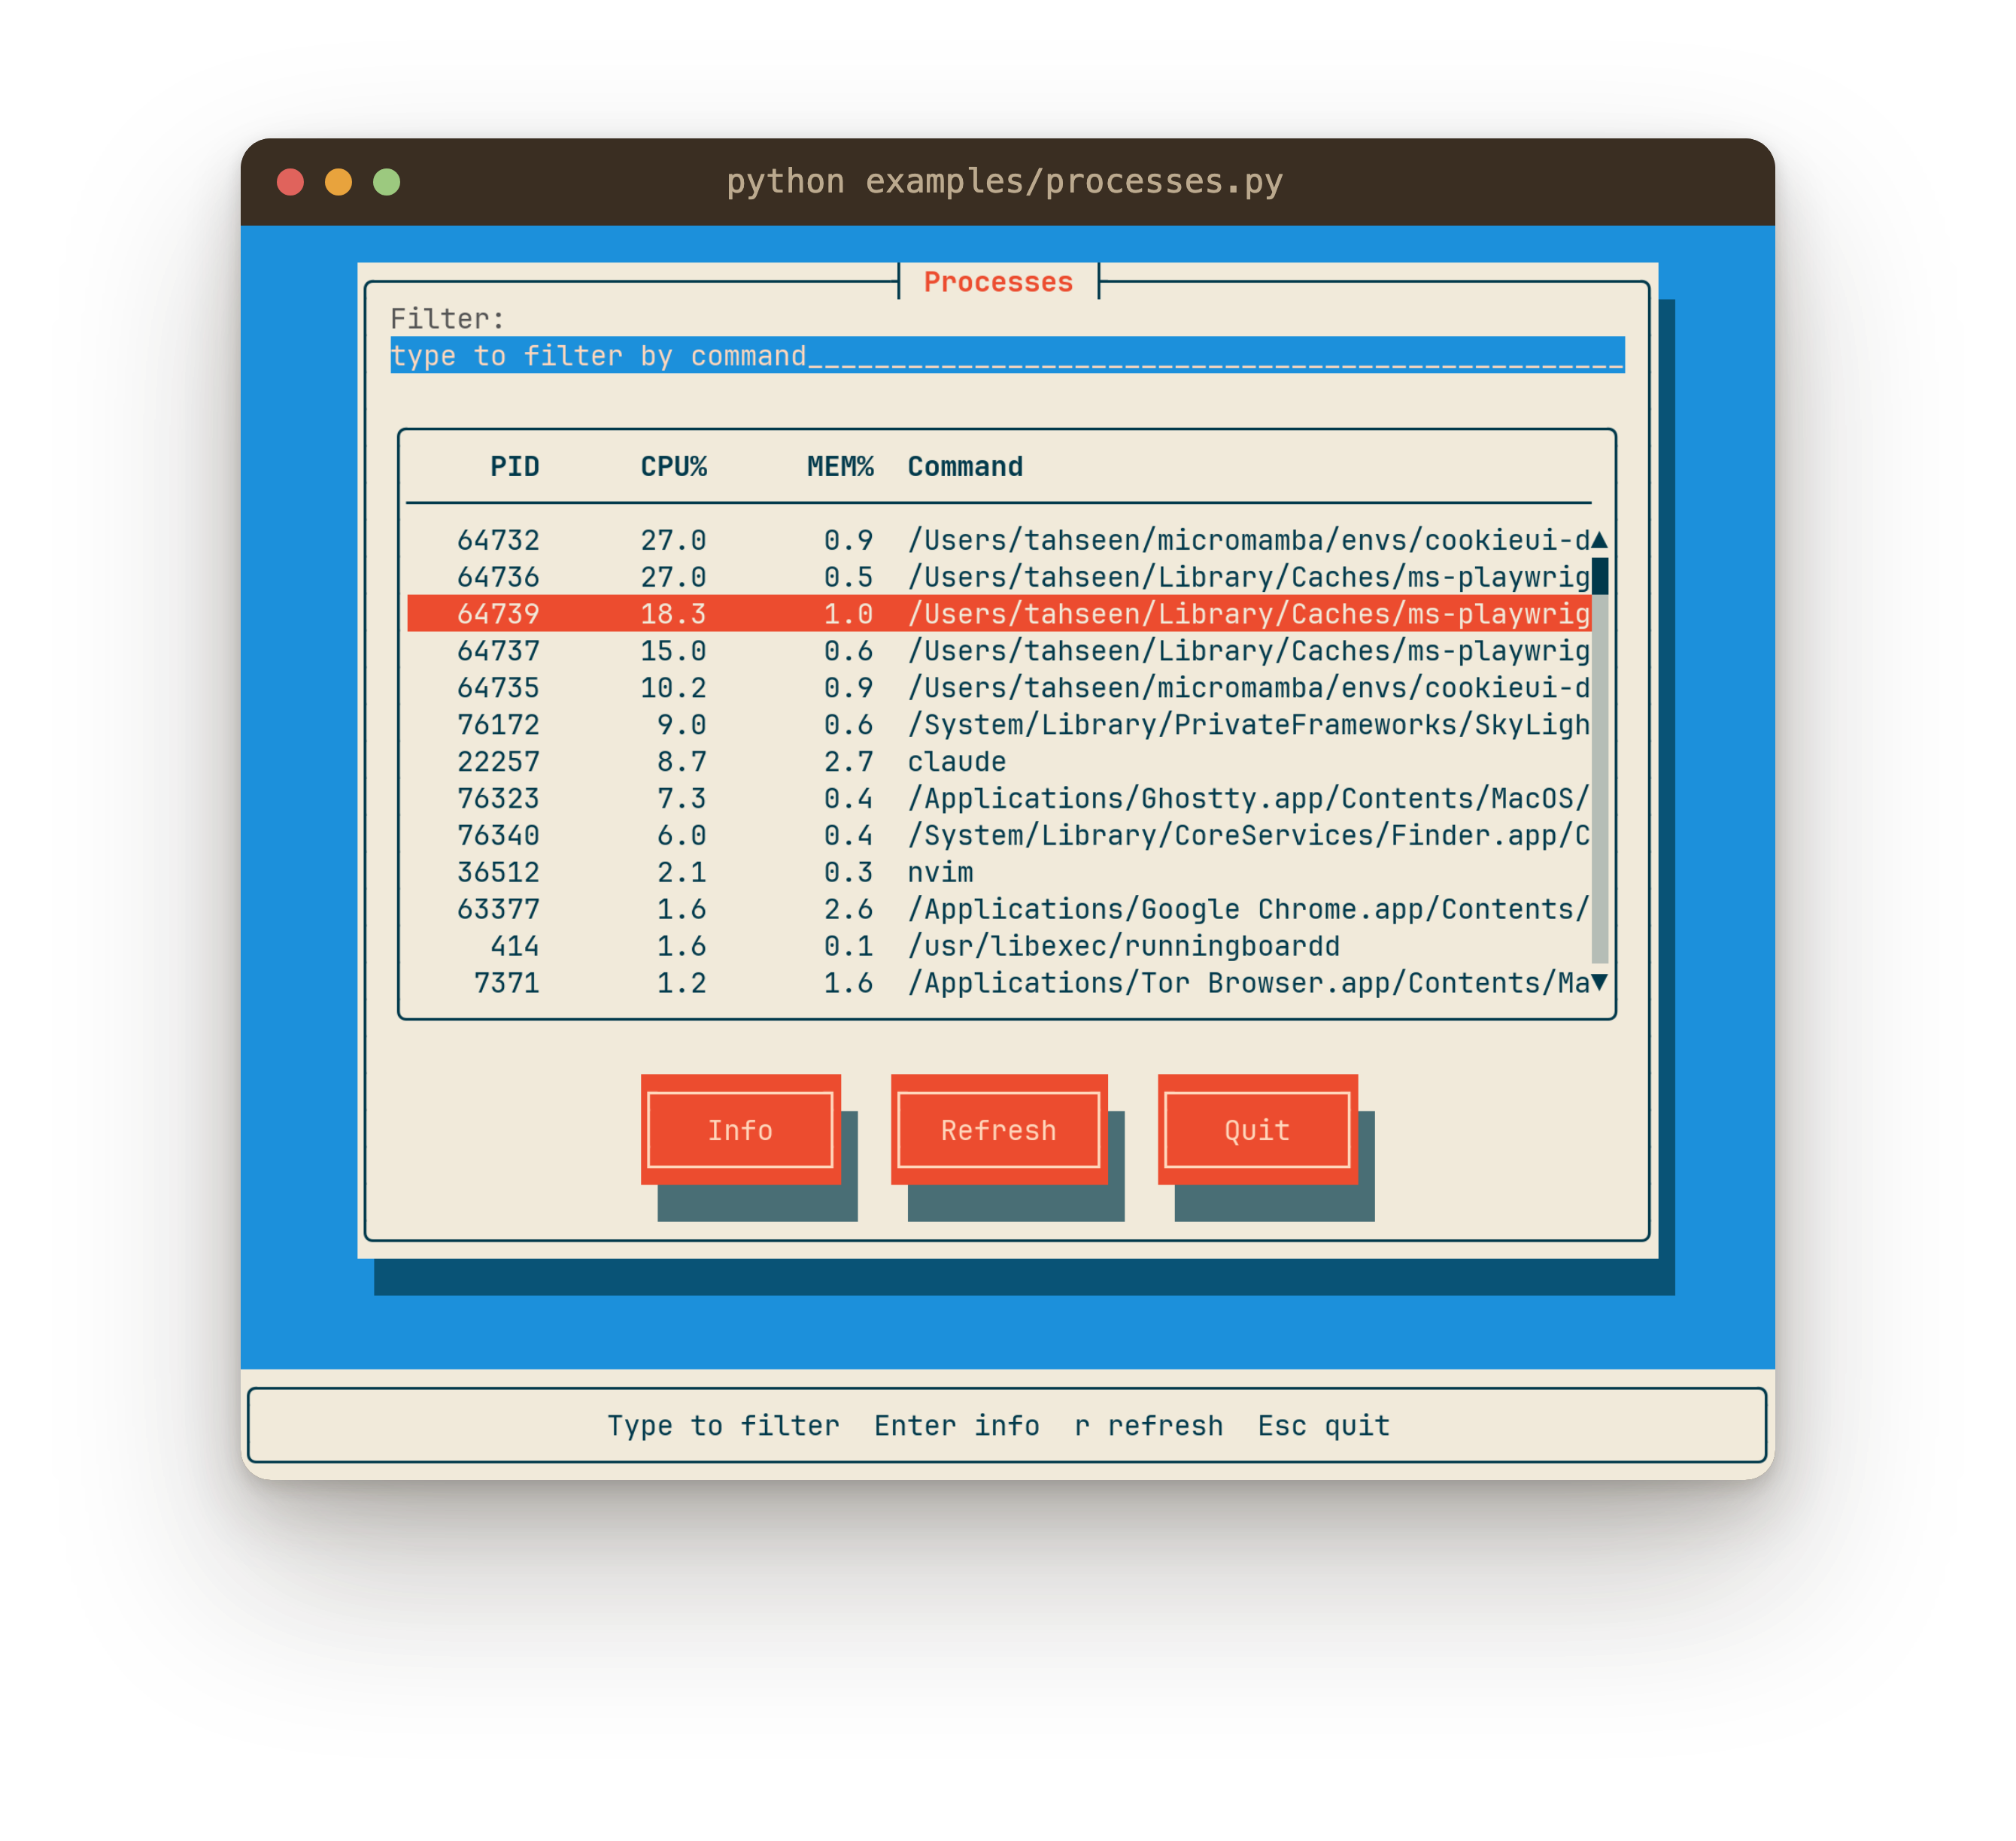
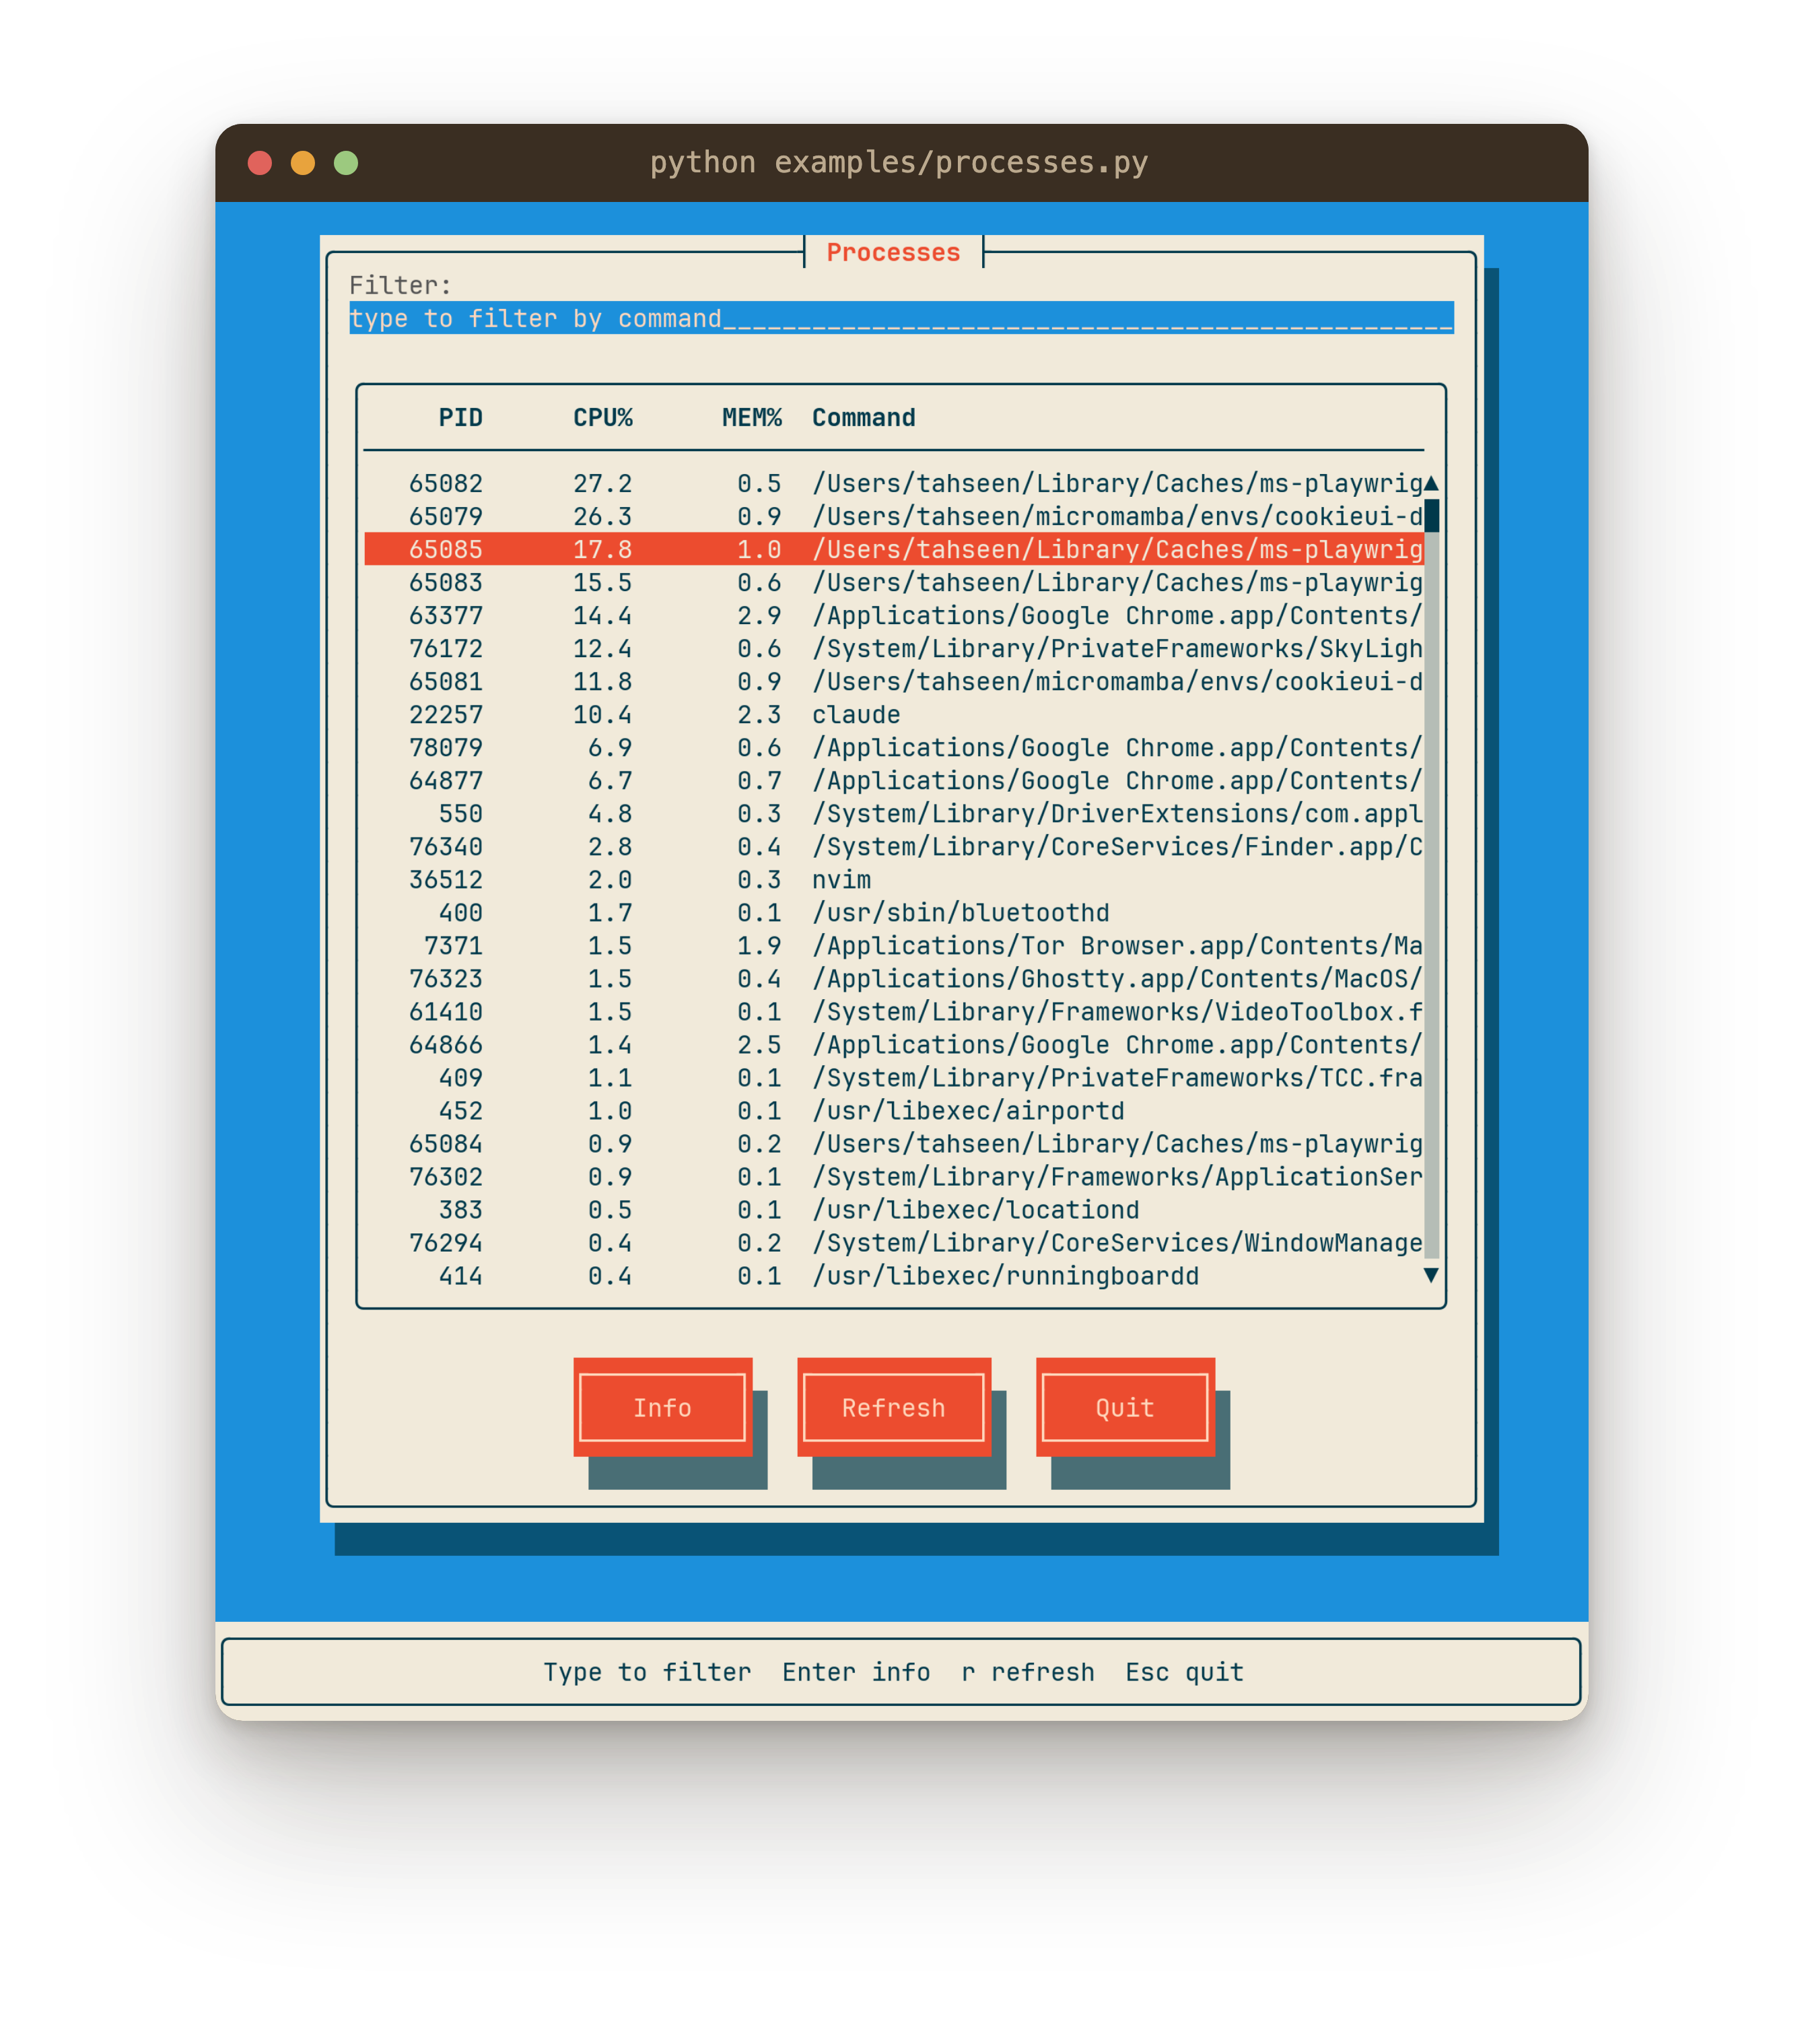
Render the 0.85-height shots in a taller terminal, not a shrunk window
The clamp guaranteed the gap by shrinking the window; the screenshots should
instead show the window at its full requested 0.85 height with the gap coming
from real space. processes and themedemo now render at h=46 (0.85·H + chrome
fits only past H=44), so the Theme Gallery / process table windows are full
size and clear the status bar with two blank rows. The library clamp stays as
a defensive net for genuinely small terminals; here it no longer engages.

Changed region(s): [[0.0929, 0.0621, 0.8981, 0.8693]]

diff --git a/screenshots/generate.py b/screenshots/generate.py
@@ -51,6 +51,10 @@ TITLEFONT = ImageFont.truetype(find_font('JetBrainsMono-Regular.ttf'), 24)
 CW = round(FONT.getlength('M'))
 CH = round(SIZE * 1.30)
 TERM_W, TERM_H = 92, 34
+# apps that ask for 0.85 of the height (processes, themedemo) need a taller
+# terminal so the window renders at full size *and* clears the status bar with
+# a real gap — 0.85·H + shadow + gap + status fits only once H >= 44.
+TALL_H = 46
 
 
 def load(name):
@@ -220,7 +224,7 @@ def shot_filebrowsing():
     return app
 
 def shot_processes():
-    app = make(load('processes').Processes, w=TERM_W, h=TERM_H)
+    app = make(load('processes').Processes, w=TERM_W, h=TALL_H)
     press(app, Key(KeyType.TAB), Key(KeyType.DOWN), Key(KeyType.DOWN))
     return app
 
@@ -259,7 +263,7 @@ def shot_dialogs():
     return app
 
 def shot_themes():
-    app = make(load('themedemo').ThemeGallery, w=TERM_W, h=TERM_H)
+    app = make(load('themedemo').ThemeGallery, w=TERM_W, h=TALL_H)
     press(app, Key(KeyType.DOWN))                    # Mocha selected, live
     return app
 